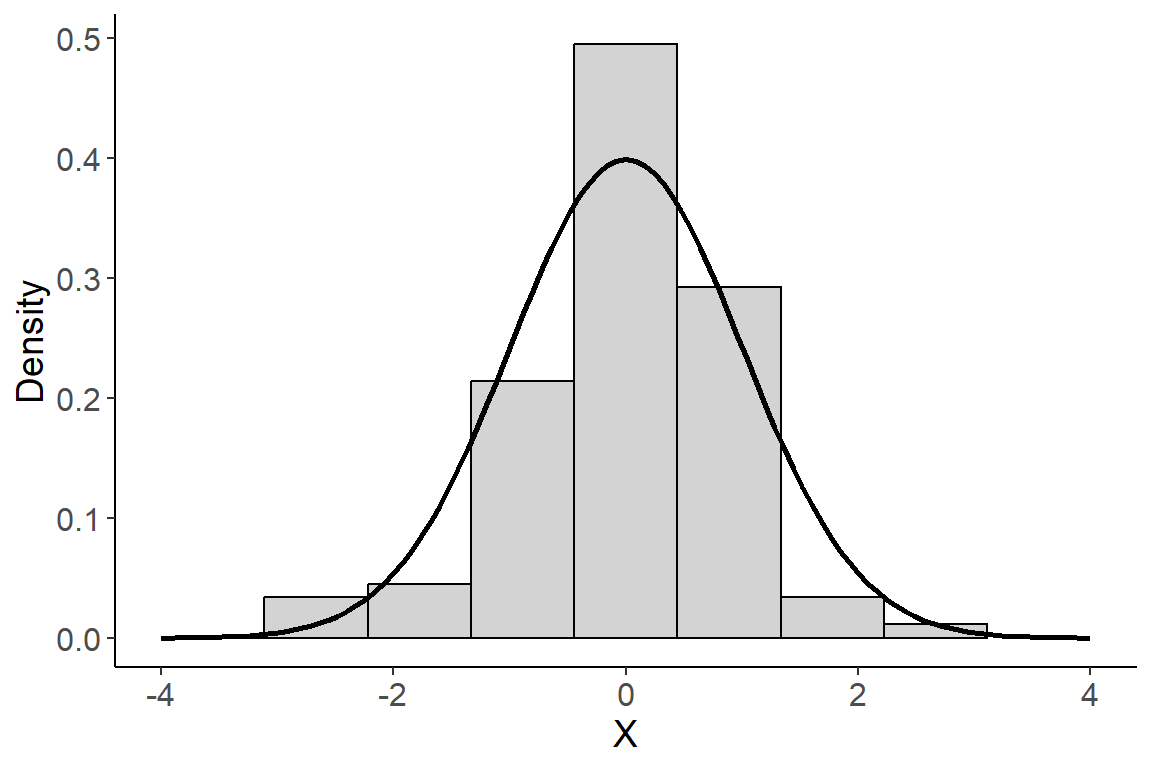
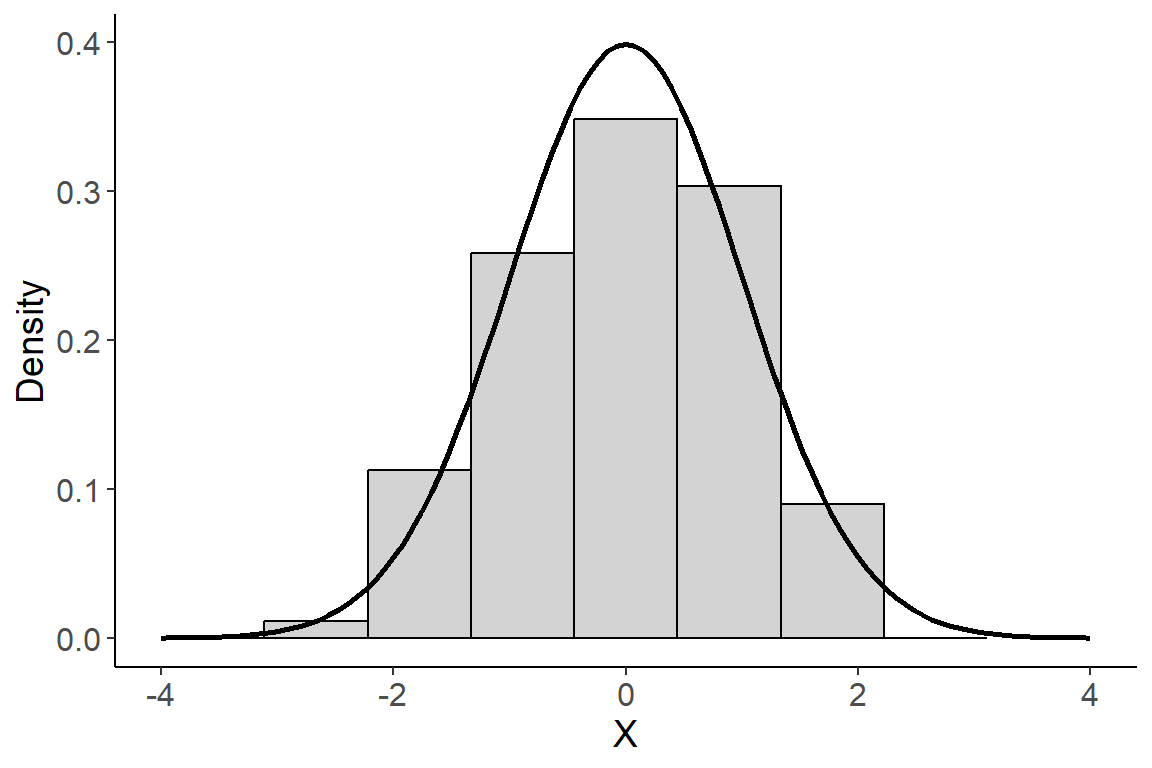
updated

diff --git a/docs/lecturemenu5.html b/docs/lecturemenu5.html
@@ -17,7 +17,7 @@
 <script src="site_libs/header-attrs-2.12/header-attrs.js"></script>
 <script src="site_libs/jquery-3.6.0/jquery-3.6.0.min.js"></script>
 <meta name="viewport" content="width=device-width, initial-scale=1" />
-<link href="site_libs/bootstrap-3.3.5/css/sandstone.min.css" rel="stylesheet" />
+<link href="site_libs/bootstrap-3.3.5/css/bootstrap.min.css" rel="stylesheet" />
 <script src="site_libs/bootstrap-3.3.5/js/bootstrap.min.js"></script>
 <script src="site_libs/bootstrap-3.3.5/shim/html5shiv.min.js"></script>
 <script src="site_libs/bootstrap-3.3.5/shim/respond.min.js"></script>
@@ -31,10 +31,14 @@
        code {color: inherit; background-color: rgba(0, 0, 0, 0.04);}
        pre:not([class]) { background-color: white }</style>
 <script src="site_libs/navigation-1.1/tabsets.js"></script>
-<link href="site_libs/highlightjs-9.12.0/textmate.css" rel="stylesheet" />
+<link href="site_libs/highlightjs-9.12.0/default.css" rel="stylesheet" />
 <script src="site_libs/highlightjs-9.12.0/highlight.js"></script>
 <script src="site_libs/kePrint-0.0.1/kePrint.js"></script>
 <link href="site_libs/lightable-0.0.1/lightable.css" rel="stylesheet" />
+<script src="site_libs/htmlwidgets-1.5.4/htmlwidgets.js"></script>
+<script src="site_libs/viz-1.8.2/viz.js"></script>
+<link href="site_libs/DiagrammeR-styles-0.2/styles.css" rel="stylesheet" />
+<script src="site_libs/grViz-binding-1.0.11/grViz.js"></script>
 
 <style type="text/css">
   code{white-space: pre-wrap;}
@@ -61,7 +65,6 @@ if (window.hljs) {
 
 
 
-<link rel="stylesheet" href="styles.css" type="text/css" />
 
 
 
@@ -1118,6 +1121,223 @@ the relationship between a response and explanatory variable</li>
 </ul></li>
 </ul>
 </div>
+</div>
+</div>
+<div id="lecture-9-wednesday-feb.9th-2024" class="section level1">
+<h1>Lecture 9: Wednesday, Feb.9th 2024</h1>
+<div id="causation-vs-association" class="section level3">
+<h3>Causation vs Association</h3>
+<p>Both observational and experimental studies seek to quantify the
+relationship between the response and explanatory variables. If two
+variables are statistically related we say they share a statistical
+<i>association</i>. If two variables are causally related, then changes
+in the explanatory variable <i>cause</i> measurable changes in the
+response variable. It is important to note that an association between
+two variables <u> does not imply </u> that they have a cause and effect
+relationship.</p>
+<ul>
+<li><p>Experimental studies control the assignment of observations to
+the explanatory variable(s) through <i> randomization </i>. This means
+experimental studies control for factors that may influence a
+statistical relationship between two variables and provide good evidence
+for causal effects.</p></li>
+<li><p>Observational studies alone <i> cannot </i> definitively
+establish a causal relationship between two variables. This is because
+observational studies are prone to <strong>lurking variable</strong> -
+an unknown variable that the researchers did not account for in the
+study and has an association with both the response and explanatory
+variables. Lurking variables can create the illusion of a statistical
+relationship when none exists</p></li>
+</ul>
+<p>Example: Many studies have looked at the relationship between coffee
+consumption as an indicator for coronary artery disease. Studies that
+fail to adjust for other risk factors, like smoking, have often reported
+a positive association between these two variables. Thus smoking acts as
+a lurking variable, magnifying the relationship between drinking coffee
+and coronary artery disease risk</p>
+<div id="htmlwidget-89910f2d4f4462360747" style="width:384px;height:288px;" class="grViz html-widget"></div>
+<script type="application/json" data-for="htmlwidget-89910f2d4f4462360747">{"x":{"diagram":"\ndigraph {\n  graph []\n  node [shape = plaintext]\n    A [label = \"Coffee Consumption\"]\n    B [label = \"Heart Disease\"]\n    C [label = \"Smoking\"]\n  edge [minlen = 2]\n    A->B\n    C->A\n    C->B\n    { rank = same; A; B }\n}\n","config":{"engine":"dot","options":null}},"evals":[],"jsHooks":[]}</script>
+</div>
+<div id="experimental-design" class="section level3">
+<h3>Experimental Design</h3>
+<p>A study is considered an experiment when we actually manipulate
+explanatory variable in order to observe how it changes the outcomes of
+the response variables. Lets start with some terminology:</p>
+<ul>
+<li><p>The individuals (observations) on which the experiment is done
+are called <strong>experimental units</strong></p></li>
+<li><p>When the experimental units are human, we often refer to them as
+<strong>subjects</strong></p></li>
+<li><p>A specific experimental condition applied to the experimental
+units is called a <strong>treatment</strong></p></li>
+<li><p>Explanatory variables are called <strong>factors</strong> and the
+various conditions of the <strong>factors</strong> are called
+<strong>factor levels</strong>.</p></li>
+</ul>
+<p>Example: What are the effects of repeated exposure to an advertising
+message? The answer may be influenced by both the length of the add and
+the number of times it is seen. Consider an experiment which used
+undergraduate college students as subjects. All subjects were exposed to
+a 40 TV-show that included adds for a fast food chain. Subjects were
+randomized to either a 30-second or 90-second commercial. The same
+commercial was shown 1, 3 or 5 times randomly during the show. After
+viewing the show and commercials, students were asked to self report on
+a Likert scale how their craving level for the advertised food.</p>
+<ul>
+<li><p>what is the response variable?</p></li>
+<li><p>What are the factors that are manipulated?</p></li>
+<li><p>What are the factor levels?</p></li>
+</ul>
+<p>Both experimental studies and observational studies <i>use
+randomization</i> to select a sample of individuals from the population
+of interest. But, unlike observational studies, experiments control for
+the effect of lurking variables <u>through a second randomization</u>
+which allocates experimental units to the different levels of the
+treatment. This randomization balances the effect of any lurking
+variables so that the effects of the explanatory variable on the
+response can me isolated.</p>
+<ul>
+<li>The design of an experiment is said to be <strong>biased</strong> if
+it systematically favors certain outcomes.</li>
+</ul>
+<p>Some of the hallmarks of a good experiment include, having a control
+group and blinding to reduce bias:</p>
+<ul>
+<li><p>A <strong>Control group</strong> - is a group of subjects in the
+experiment who do not receive the treatment. A control group is used to
+control bias in an experiment because, by design, the only difference
+between the two groups is the treatment.</p></li>
+<li><p><strong>Blinding</strong> is a way of designing an experiment to
+ensure that subjects are unaware if they are in the treatment or control
+group</p></li>
+<li><p><strong>Double blinding</strong> - when both subjects and the
+researchers are unaware of who is assigned to the treatment group and
+who is assigned to the control group.</p></li>
+</ul>
+<p>The simplest type of experimental design is called a
+<strong>completely randomized design</strong> this design looks at the
+effects of a single treatment on a response variable.</p>
+<ul>
+<li><p>Experimental units are randomly assigned to each level of the
+treatment</p></li>
+<li><p>Each unit has an equal probability of being assigned to each
+treatment group</p></li>
+</ul>
+<p><strong>Multifactorial</strong> experiments look at the effects of
+two or more treaments on a response simultaneously. There are many
+different types of mulitfactorial designs. Two commonly used designs are
+described below:</p>
+<ul>
+<li><p><strong>Randomized block</strong> - When subjects are not similar
+enough, detecting differences among the treatment groups can be
+difficult. We instead create groups called blocks. Blocks are organized
+so that units inside a block are more similar. Each block sees all
+treatments in random order</p>
+<ul>
+<li>Example: an agricultural study where researchers are examining the
+yield of three different types of fertilizers (A, B, and C) across four
+different fields (Blocks 1 to 4). To control for potential variability
+in soil conditions, a randomized complete block design is employed. In
+this example, each block represents a different field, and within each
+block, every type of fertilizer is randomly assigned to different plots.
+This design helps account for potential variations in soil quality
+between fields. The randomization ensures that any uncontrolled factors
+affecting a specific block are equally distributed among the different
+fertilizer treatments, making it easier to attribute differences in
+yield to the actual effect of the fertilizers.</li>
+</ul></li>
+<li><p><strong>Matched pairs</strong> - a design which takes
+measurements on each subject, usually once before the treatment and once
+after the treatment producing a set of paired measurements</p>
+<ul>
+<li>Example: consider a study investigating the impact of a new tutoring
+method on students’ math performance. In this matched pairs design, each
+subject is paired with another based on their initial math proficiency.
+This pairing is based on the initial math scores of the students. After
+the tutoring interventions, the math performance of both students in
+each pair is measured again. By comparing the changes in performance
+within each pair, researchers can better assess whether the new tutoring
+method had a significant impact on math proficiency while controlling
+for initial differences in skill levels.</li>
+</ul></li>
+</ul>
+</div>
+<div id="surveys" class="section level3">
+<h3>Surveys</h3>
+<p>Surveys (called sample surveys in statistics) are a type of
+<i>observational study</i> where we select a subset of units from a
+population of such units for the purpose of making inferences about the
+distribution of all units (i.e., the population distribution).</p>
+<ul>
+<li><p>In statistics, a survey is really any information gathered from a
+sample of subjects.</p></li>
+<li><p>A <strong>census</strong> is a type of survey which attempts to
+gather information for all (or nearly all) subjects in a
+population</p></li>
+</ul>
+<p>A survey consists of two main components:</p>
+<ul>
+<li><p>A <strong>sampling frame</strong> which is a list of subjects in
+the population from which the sample will be collected</p></li>
+<li><p>And a <strong>sampling design</strong> which is the method that
+will be used to select subjects from the sampling frame.</p></li>
+</ul>
+<p>Any sampling design we choose should ensure that the sample we
+collect is representative of the <u>entire</u> population we are trying
+to estimate. Some common sampling designs include:</p>
+<ul>
+<li><p><strong>Convenience sampling</strong> is a type of
+<i>non-random</i> sampling that involves the sample being drawn from
+that part of the population that is close to hand.</p></li>
+<li><p><strong>Volunteer sample</strong> – a type of <i>non-random</i>
+sampling where participants self elect to be part of the study because
+they volunteer when asked or respond to advertisement.</p>
+<ul>
+<li>the most common type of convenience sampling</li>
+<li>often required when we don’t have a sampling frame for the
+population</li>
+<li>this is the type of sampling used for most medical experiments</li>
+</ul></li>
+</ul>
+<p>A sample is more likely to be representative of the population if we
+let chance, rather than convenience, determine which subjects are
+sampled. For this reason, we typically choose a sampling design that
+uses randomization to determine which units are selected from the
+sampling frame.</p>
+<ul>
+<li><strong>Simple random sampling</strong> (also just called random
+sampling) a type of <i>random</i> sampling where each subject in the
+sampling frame to has an <u>equal probability</u> of being selected for
+the sample.</li>
+</ul>
+<p>Random sampling can be done <i> with replacement</i> or <i>without
+replacement</i></p>
+<p>When we sample <strong>with replacement</strong>, each time we sample
+a subject from the population we put the subject back so that it can be
+sampled again.</p>
+<ul>
+<li>In general, for a population of size <span
+class="math inline">\(N\)</span> each subject will have a <span
+class="math inline">\(\frac{1}{N}\)</span> chance of being included in
+the sample.</li>
+</ul>
+<p>When we sample <strong>without replacement</strong>, then each time
+we sample a subject from the population we remove that subject from the
+sampling frame so that it cannot be selected again.</p>
+<ul>
+<li><p>This means that first subject will have a <span
+class="math inline">\(\frac{1}{N}\)</span> chance of being selected, the
+second a <span class="math inline">\(\frac{1}{N-1}\)</span>, the third a
+<span class="math inline">\(\frac{1}{N-2}\)</span> <span
+class="math inline">\(\cdots\)</span> and so on</p></li>
+<li><p>Sampling without replacement is common in most surveys because
+the sample size is usually small in comparison to the population size
+(i.e <span class="math inline">\(n &lt;&lt; N\)</span>) and thus it is
+approximately the same as sampling with replacement</p></li>
+</ul>
+</div>
+<div id="sources-of-bias-in-surveys" class="section level3">
+<h3>Sources of Bias In Surveys</h3>
 </div>
 </div>
 
